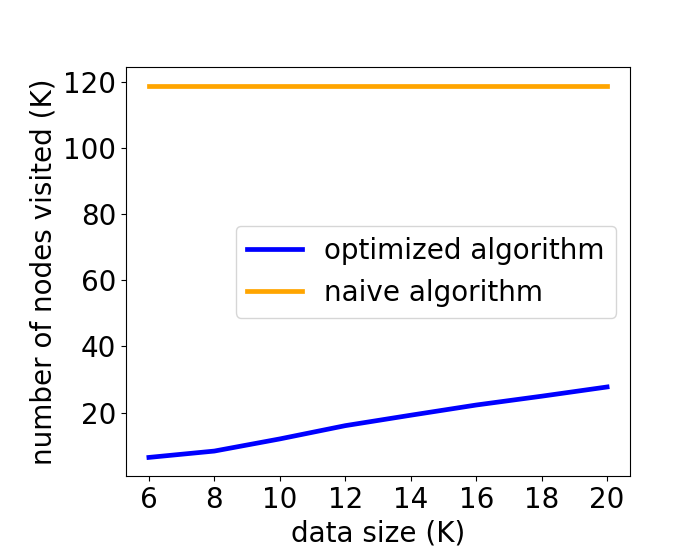
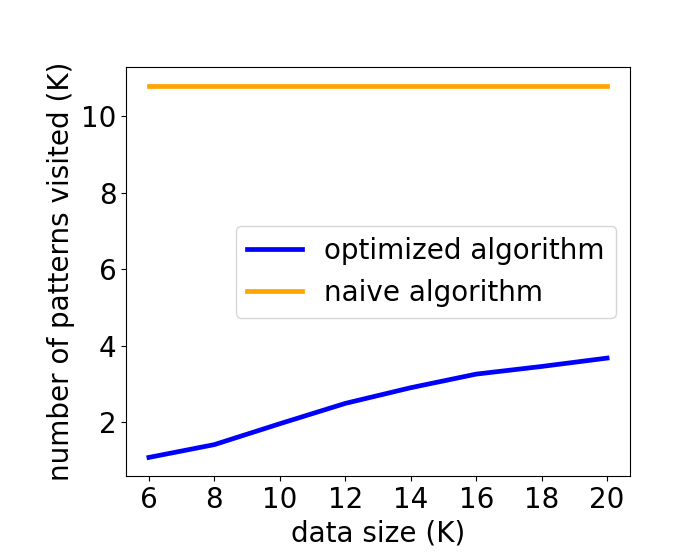
low acc, compas datasize

Changed region(s): [[0.03, 0.0911, 0.18, 0.8804], [0.21, 0.6375, 0.87, 0.8196], [0.12, 0.3339, 0.18, 0.425]]

diff --git a/Coding/Experiments/AccuracyFairness/CompasData/data_size_2_20210629.py b/Coding/Experiments/AccuracyFairness/CompasData/data_size_2_20210629.py
@@ -14,7 +14,7 @@ x axis: data sizes: 100, 500, 1000, 2000, 3000, 4000, 5000, 6000
 
 Other parameters:
 selected_attributes = ['sexC', 'ageC', 'raceC', 'MC', 'priors_count_C', 'c_charge_degree']
-threshold of cardinality Thc = 30
+size threshold Thc = 30
 threshold of minority group accuracy: overall acc - 20
 
 """
@@ -101,8 +101,7 @@ def GridSearch(original_data_file_pathpre, datasize, thc, selected_attributes):
     return execution_time1, num_calculation1, execution_time2, num_calculation2, pattern_with_low_accuracy1, overall_acc, tha
 
 
-selected_attributes = ['sexC', 'ageC', 'raceC', 'MC', 'priors_count_C', 'c_charge_degree',
-                       'decile_score']
+selected_attributes = ['sexC', 'ageC', 'raceC', 'MC', 'priors_count_C', 'c_charge_degree']
 data_sizes = [6000, 8000, 10000, 12000, 14000, 16000, 18000, 20000]
 Thc = 50
 original_data_file_pathprefix = "../../../../InputData/CompasData/LargerDatasets/"
@@ -192,7 +191,7 @@ plt.plot(data_sizes, num_patterns_checked2, label="naive algorithm", color='oran
 plt.xlabel('data size (K)')
 plt.xticks([6000, 8000, 10000, 12000, 14000, 16000, 18000, 20000])
 ax.xaxis.set_major_formatter(FuncFormatter(thousands_formatter))
-plt.ylabel('number of nodes visited (K)')
+plt.ylabel('number of patterns visited (K)')
 ax.yaxis.set_major_formatter(FuncFormatter(thousands_formatter))
 plt.subplots_adjust(bottom=0.15, left=0.18)
 plt.legend()

diff --git a/Coding/Experiments/AccuracyFairness/CompasData/data_size_1_20210201.py b/Coding/Experiments/AccuracyFairness/CompasData/data_size_1_20210201.py
@@ -14,7 +14,7 @@ x axis: data sizes: 100, 500, 1000, 2000, 3000, 4000, 5000, 6000
 
 Other parameters:
 selected_attributes = ['sexC', 'ageC', 'raceC', 'MC', 'priors_count_C', 'c_charge_degree']
-threshold of cardinality Thc = 30
+size threshold Thc = 30
 threshold of minority group accuracy: overall acc - 20
 
 """
@@ -182,7 +182,7 @@ plt.plot(data_sizes, num_patterns_checked2, label="naive algorithm", color='oran
 plt.xlabel('data size (K)')
 plt.xticks([6000, 8000, 10000, 12000, 14000, 16000, 18000, 20000])
 ax.xaxis.set_major_formatter(FuncFormatter(thousands_formatter))
-plt.ylabel('number of nodes visited (K)')
+plt.ylabel('number of patterns visited (K)')
 ax.yaxis.set_major_formatter(FuncFormatter(thousands_formatter))
 plt.subplots_adjust(bottom=0.15, left=0.18)
 plt.legend()

diff --git a/Coding/Experiments/AccuracyFairness/CompasData/data_size.py b/Coding/Experiments/AccuracyFairness/CompasData/data_size.py
@@ -14,7 +14,7 @@ x axis: data sizes: 100, 500, 1000, 2000, 3000, 4000, 5000, 6000
 
 Other parameters:
 selected_attributes = ['sexC', 'ageC', 'raceC', 'MC', 'priors_count_C', 'c_charge_degree']
-threshold of cardinality Thc = 30
+size threshold Thc = 30
 threshold of minority group accuracy: overall acc - 20
 
 """
